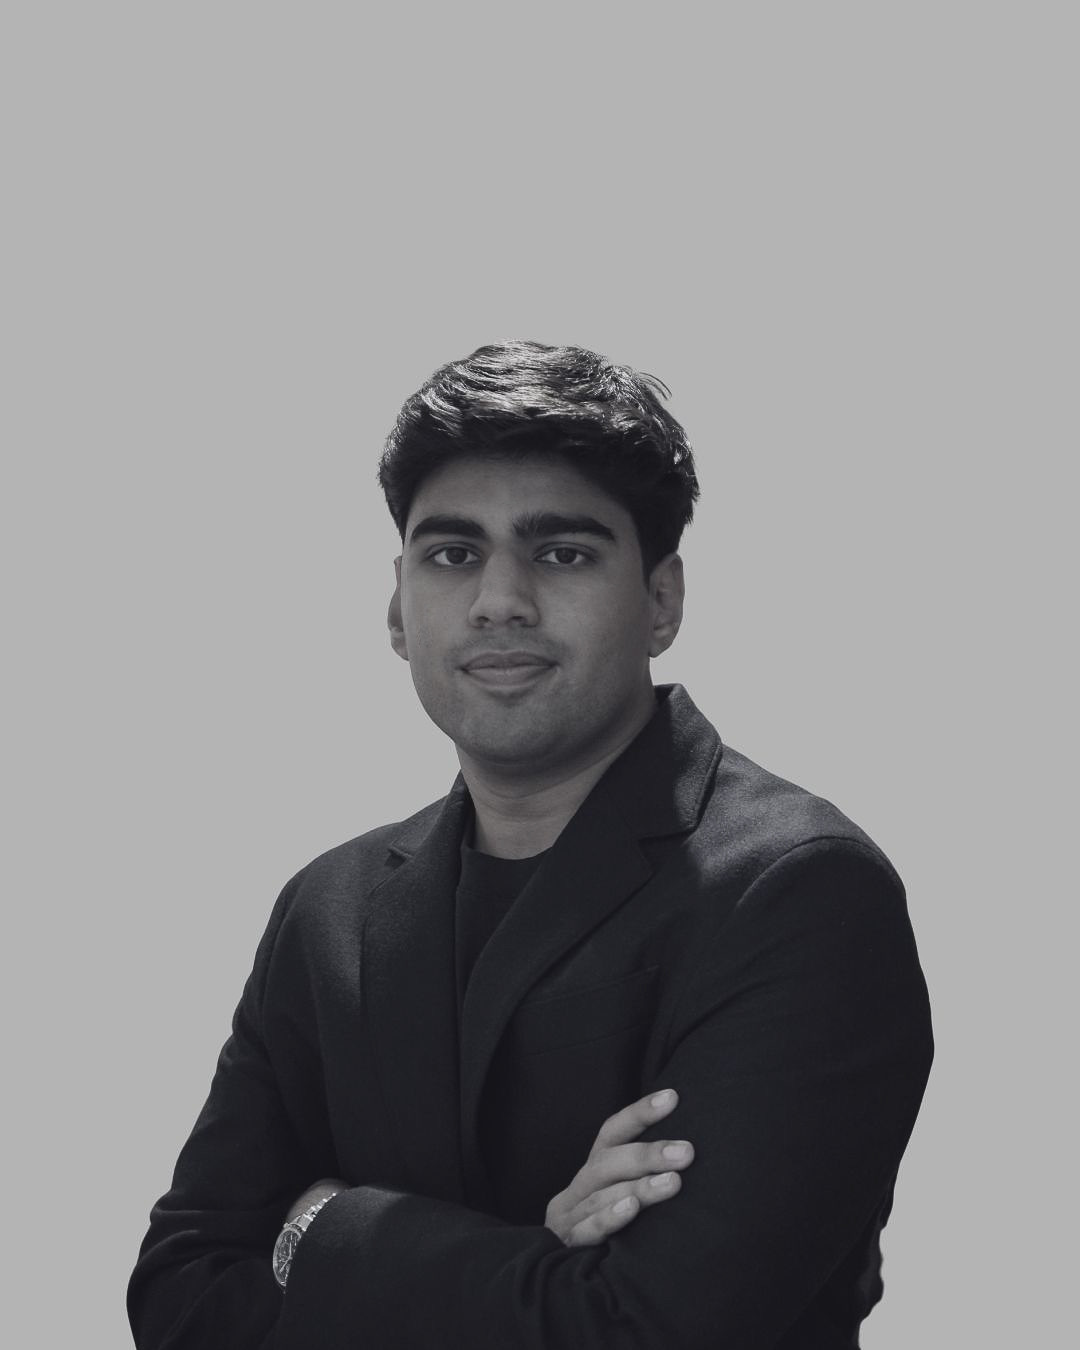
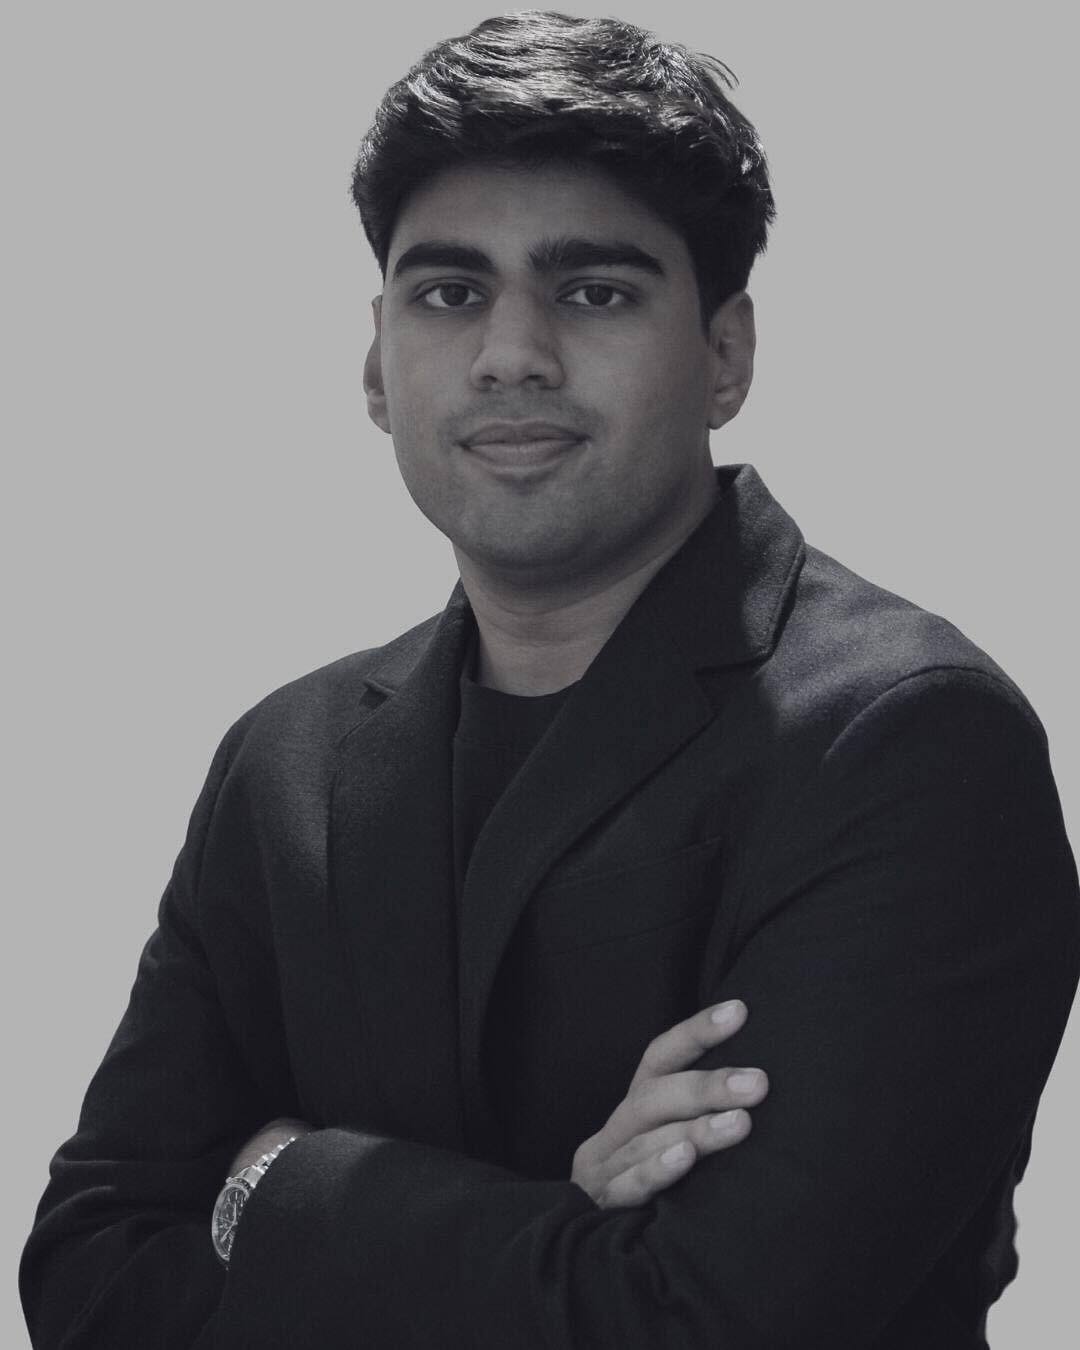
feat: add new team members and update headshots
Add David Gamíndez and David Peñas as Sales Tax Advisors
Update Vansh Pursnani's headshot and use local webp images

#VERCEL_SKIP

diff --git a/components/team-hero-carousel.tsx b/components/team-hero-carousel.tsx
@@ -47,6 +47,18 @@ const teamMembers = [
     image: "/images/team/jesus-ros.webp",
     alternative_image: "/assets/placeholder.svg",
   },
+  {
+    name: "David Gamíndez",
+    position: "Sales Tax Advisor",
+    image: "/images/team/david-gamindez.webp",
+    alternative_image: "/assets/placeholder.svg",
+  },
+  {
+    name: "David Peñas",
+    position: "Sales Tax Advisor",
+    image: "/images/team/david-penas.webp",
+    alternative_image: "/assets/placeholder.svg",
+  },
 ]
 
 export function TeamHeroCarousel() {
